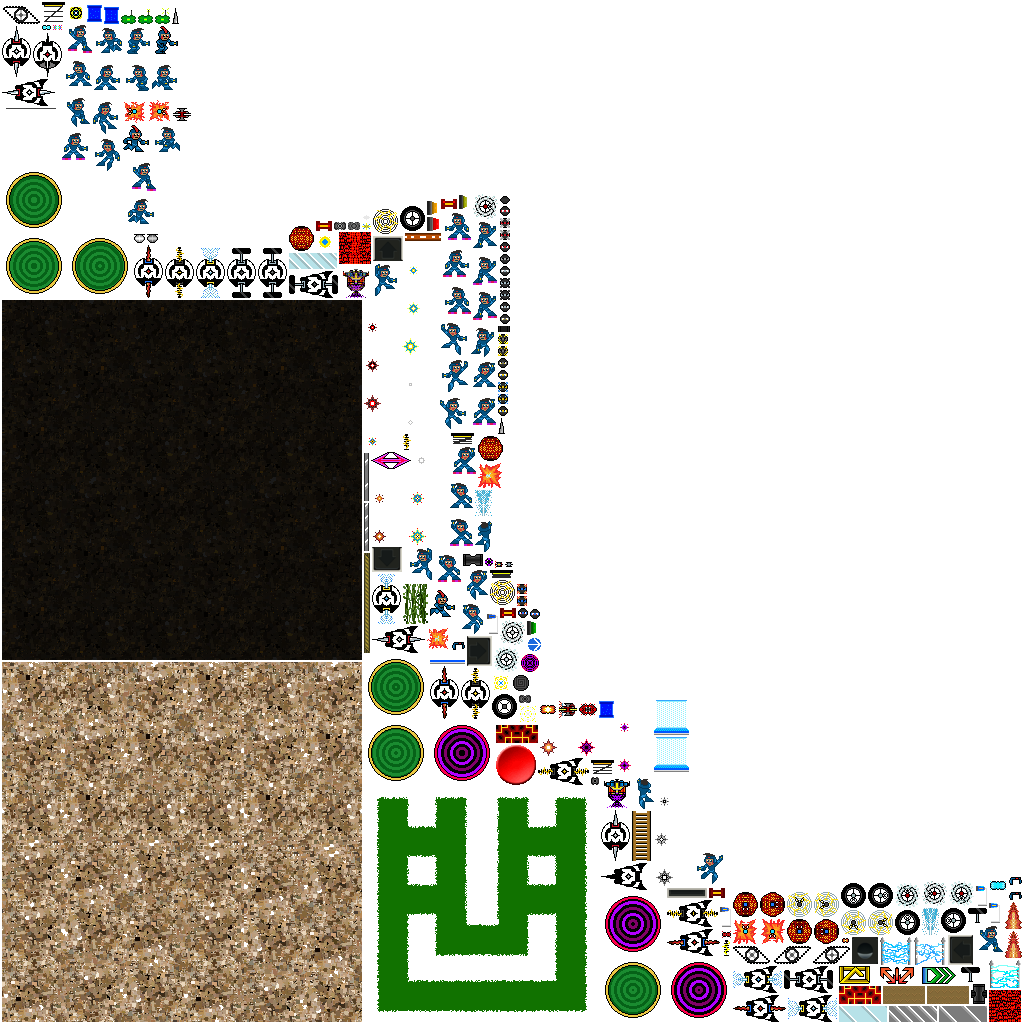
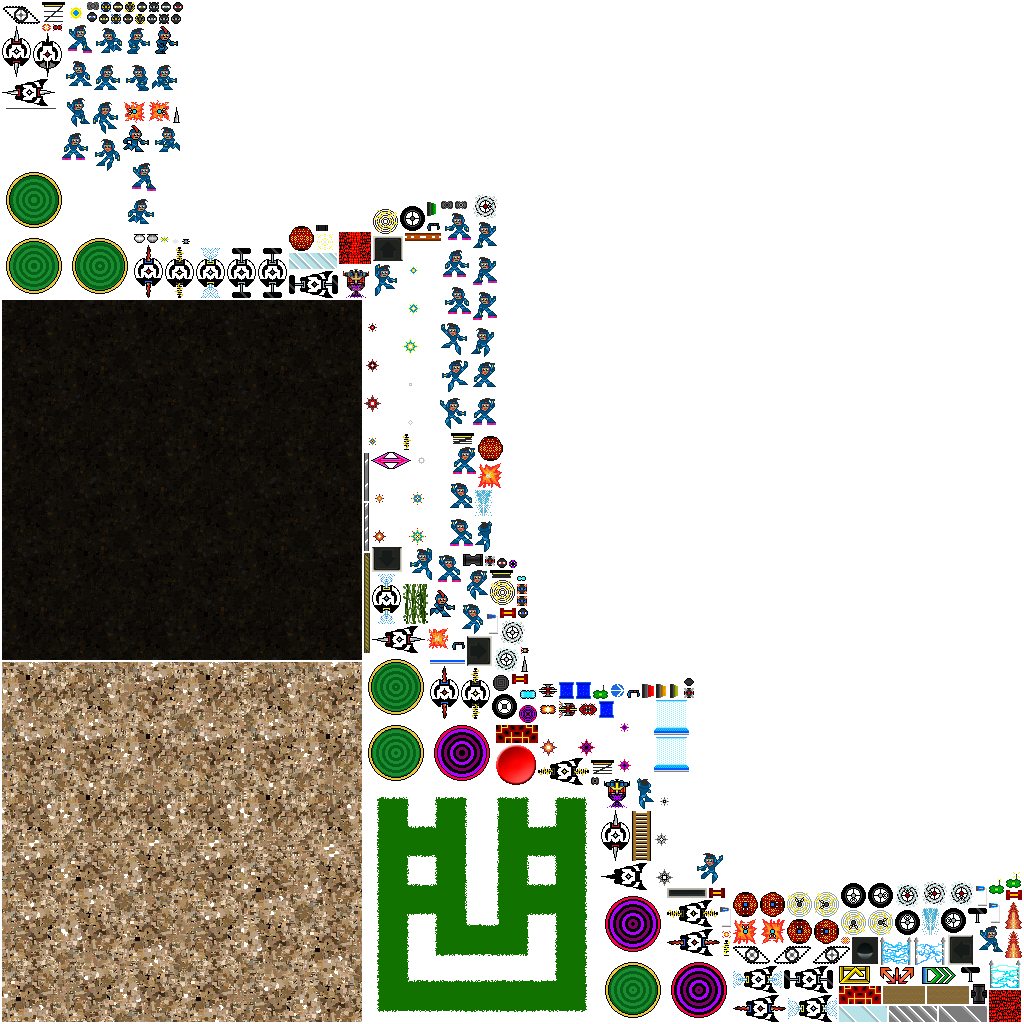
added gas shot sprites

diff --git a/core/src/com/udacity/gamedev/gigagal/util/Constants.java b/core/src/com/udacity/gamedev/gigagal/util/Constants.java
@@ -516,7 +516,8 @@ public final class Constants {
     public static final Vector2 BLAST_CENTER = new Vector2(BLAST_RADIUS, BLAST_RADIUS);
     public static final String SHOT_NATIVE_SPRITE = "ammo-shot-native";
     public static final String BLAST_NATIVE_SPRITE = "ammo-blast-native";
-    public static final String SHOT_GAS_SPRITE = "ammo-shot-gas";
+    public static final String SHOT_GAS_SPRITE_1 = "ammo-shot-gas-1";
+    public static final String SHOT_GAS_SPRITE_2 = "ammo-shot-gas-2";
     public static final String BLAST_GAS_SPRITE = "ammo-blast-gas";
     public static final String SHOT_LIQUID_SPRITE = "ammo-shot-liquid";
     public static final String BLAST_LIQUID_SPRITE = "ammo-blast-liquid";

diff --git a/core/src/com/udacity/gamedev/gigagal/util/Assets.java b/core/src/com/udacity/gamedev/gigagal/util/Assets.java
@@ -445,7 +445,8 @@ public final class Assets implements AssetErrorListener {
 
 
             Array<AtlasRegion> gasShotRegions = new Array<AtlasRegion>();
-            gasShotRegions.add(atlas.findRegion(Constants.SHOT_GAS_SPRITE));
+            gasShotRegions.add(atlas.findRegion(Constants.SHOT_GAS_SPRITE_1));
+            gasShotRegions.add(atlas.findRegion(Constants.SHOT_GAS_SPRITE_2));
             gasShot = new Animation(Constants.AMMO_DURATION / gasShotRegions.size, gasShotRegions, PlayMode.LOOP);
 
 
